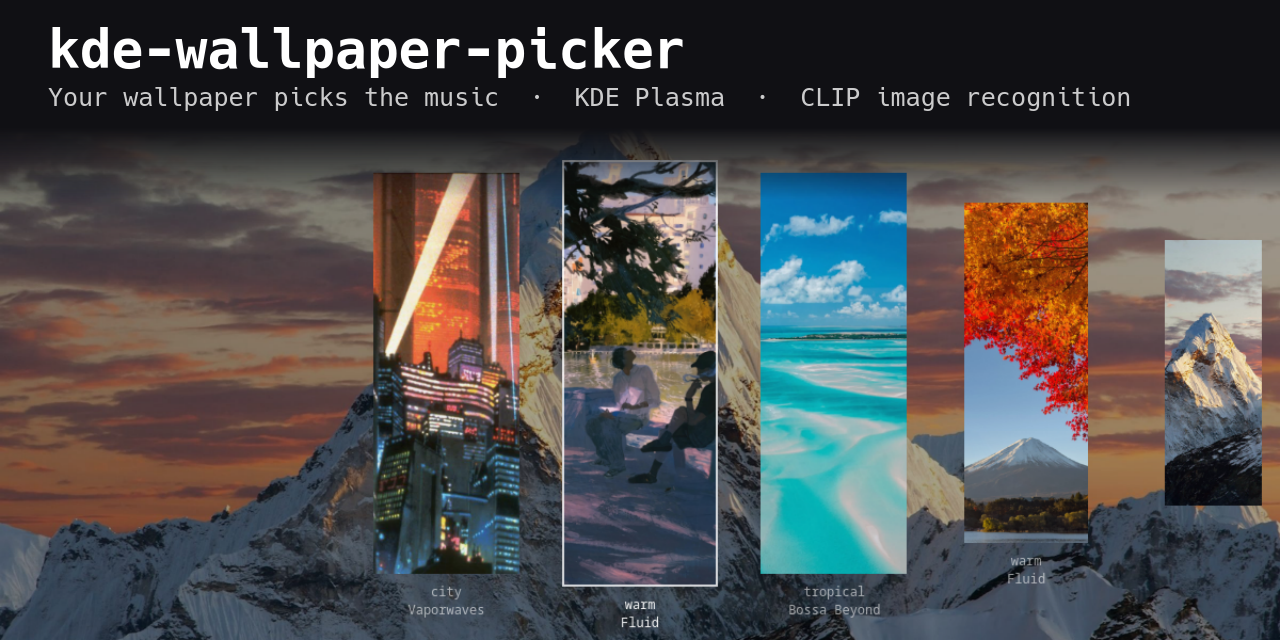
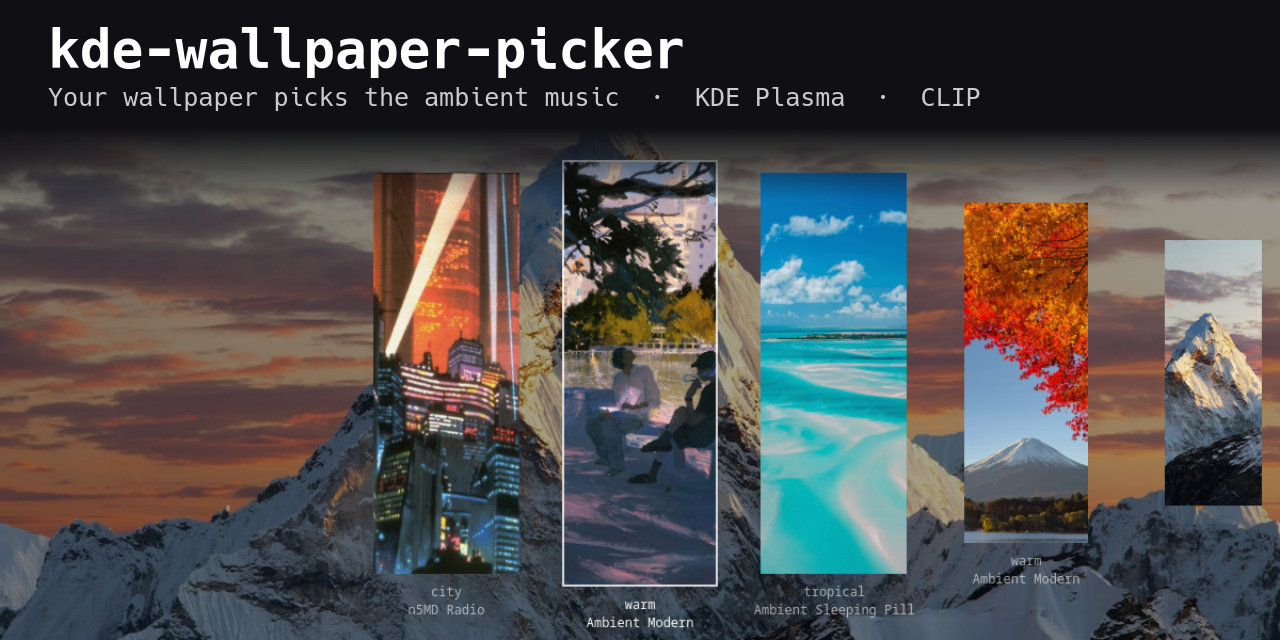
Switch every mood to slow ambient stations
The previous stations (lofi, bossa nova, vaporwave, downtempo) had beats
that were too busy for background music. Every mood now plays slow
ambient: SomaFM's Drone Zone, Deep Space One, Dark Zone, n5MD, Mission
Control and Synphaera, plus stereoscenic's beat-free Ambient Sleeping
Pill and Ambient Modern. The README, demo GIF and social preview match.

diff --git a/README.md b/README.md
@@ -1,7 +1,7 @@
 # Wallpaper Picker and music changer
 
 **Pick a wallpaper and your whole desktop follows: accent colour, lock screen, and music that fits the picture.**
-Lofi for an anime street, bossa nova for a tropical beach, synthwave for a neon city.
+Calm ambient radio picked to fit what's in the image: soft and warm for an anime street, deep space drones for a galaxy, moody post-rock for a neon city.
 
 ![The picker: mood and station under each wallpaper, Tab switching colour/smart mode, M overriding a mood](docs/demo.gif)
 
@@ -11,7 +11,8 @@ A full-screen cover-flow wallpaper picker for KDE Plasma that plays music to mat
 
 - **Cover-flow picker** on a keyboard shortcut, opening on your main monitor
 - **One click sets everything**: wallpaper on every screen, the lock screen, and an accent colour taken from the image
-- **Music that matches the mood**, from free [SomaFM](https://somafm.com) internet radio or your own music folders
+- **Slow ambient music that matches the mood**, from free internet radio ([SomaFM](https://somafm.com) and
+  [stereoscenic](https://stereoscenic.com)) or your own music folders
 - **Two ways to read the mood**:
   - **Colour mode**: instant, from the image's colours
   - **Smart mode**: [CLIP](https://github.com/openai/CLIP) image recognition, running offline on your CPU, that knows a beach from a lake
@@ -76,20 +77,20 @@ This is the same in both music modes.
 
 Each wallpaper gets one of these moods, and each mood has its own music:
 
-| Mood     | Colour mode: looks like             | Smart mode: pictures like            | Station (SomaFM)     |
-|----------|-------------------------------------|--------------------------------------|----------------------|
-| `warm`   | orange / red / gold                 | cozy anime scenes, autumn, sunsets   | Fluid (lofi-ish)     |
-| `city`   | dark with neon or bright lights     | cities at night, skylines, cyberpunk | Vaporwaves           |
+| Mood     | Colour mode: looks like             | Smart mode: pictures like            | Station (all slow ambient) |
+|----------|-------------------------------------|--------------------------------------|----------------------------|
+| `warm`   | orange / red / gold                 | cozy anime scenes, autumn, sunsets   | Ambient Modern       |
+| `city`   | dark with neon or bright lights     | cities at night, skylines, cyberpunk | n5MD Radio           |
 | `space`  | dark blue / purple / magenta        | space, galaxies, starry skies        | Deep Space One       |
-| `nature` | green, including dark forests       | forests, mountains, meadows          | Groove Salad Classic |
+| `nature` | green, including dark forests       | forests, mountains, meadows          | Ambient Sleeping Pill |
 | `dark`   | dark, any other colour              | gloomy, moody, gothic                | Dark Zone            |
-| `cool`   | blue / cyan                         | calm ocean, lakes, blue sky          | Groove Salad         |
-| `dreamy` | pastel or pink                      | pastel skies, pink clouds            | Lush                 |
+| `cool`   | blue / cyan                         | calm ocean, lakes, blue sky          | Drone Zone           |
+| `dreamy` | pastel or pink                      | pastel skies, pink clouds            | Ambient Sleeping Pill |
 | `muted`  | grey / colourless                   | black and white, grey architecture   | Drone Zone           |
-| `tropical` | (smart only)                      | tropical beaches, palm trees, islands | Bossa Beyond        |
-| `retro`  | (smart only)                        | vintage photos, 60s scenes, old film | Secret Agent         |
+| `tropical` | (smart only)                      | tropical beaches, palm trees, islands | Ambient Sleeping Pill |
+| `retro`  | (smart only)                        | vintage photos, 60s scenes, old film | Mission Control      |
 | `abstract` | (smart only)                      | abstract shapes, geometric art       | Synphaera            |
-| `countryside` | (smart only)                   | fields, cabins, desert roads, villages | Folk Forward       |
+| `countryside` | (smart only)                   | fields, cabins, desert roads, villages | Ambient Modern       |
 
 Colour mode only knows the first eight; smart mode can tell all twelve apart.
 
@@ -100,7 +101,7 @@ There are two ways to pick the mood:
 - **Smart mode** uses [CLIP](https://openai.com/research/clip), an image-recognition model
   that runs offline on your CPU. Each mood has a few written descriptions (the "pictures like"
   column, editable in `themes.json`). CLIP compares the image with every description and the
-  closest mood wins, so a blue-tinted anime street still comes out as lofi. If it's less than
+  closest mood wins, so a blue-tinted anime street still comes out as warm. If it's less than
   50% sure, it uses the colour mood instead, shown as e.g. `cool (colour)` in the picker.
 
 Results are cached in `~/.cache/wallpaper-picker/`. Each image is analysed once; editing the
@@ -133,14 +134,14 @@ The file is created with the defaults on first run. Entries are keyed by wallpap
   "default": { "accent": "auto" },
   "moods": {
     "warm": {
-      "music": "https://ice1.somafm.com/fluid-128-mp3",
+      "music": "https://radio.stereoscenic.com/mod-h",
       "prompts": ["a cozy anime scene", "autumn leaves", "a warm golden sunset"]
     },
     "...": "..."
   },
   "Autumn.jpg":  { "accent": "#e9643a" },
   "Kokkini.png": { "mood": "city" },
-  "Path.jpg":    { "music": "https://ice1.somafm.com/groovesalad-128-mp3" }
+  "Path.jpg":    { "music": "https://ice1.somafm.com/dronezone-128-mp3" }
 }
 ```
 
@@ -148,7 +149,7 @@ The file is created with the defaults on first run. Entries are keyed by wallpap
 - `mode`: `"colour"` or `"smart"` (Tab in the picker changes this)
 - `moods`: each mood's `music` and, for smart mode, its `prompts`: short descriptions of
   images that fit it. Add a description when something lands in the wrong mood, or add a whole
-  new mood with its own prompts and station. Other SomaFM stations are listed at somafm.com.
+  new mood with its own prompts and station. Every station is slow ambient by default; SomaFM lists more (some with beats) at somafm.com.
 - per wallpaper:
   - `accent`: `"auto"` (from the image) or any colour like `"#e9643a"`
   - `mood`: force a mood instead of guessing (M in the picker sets this)
